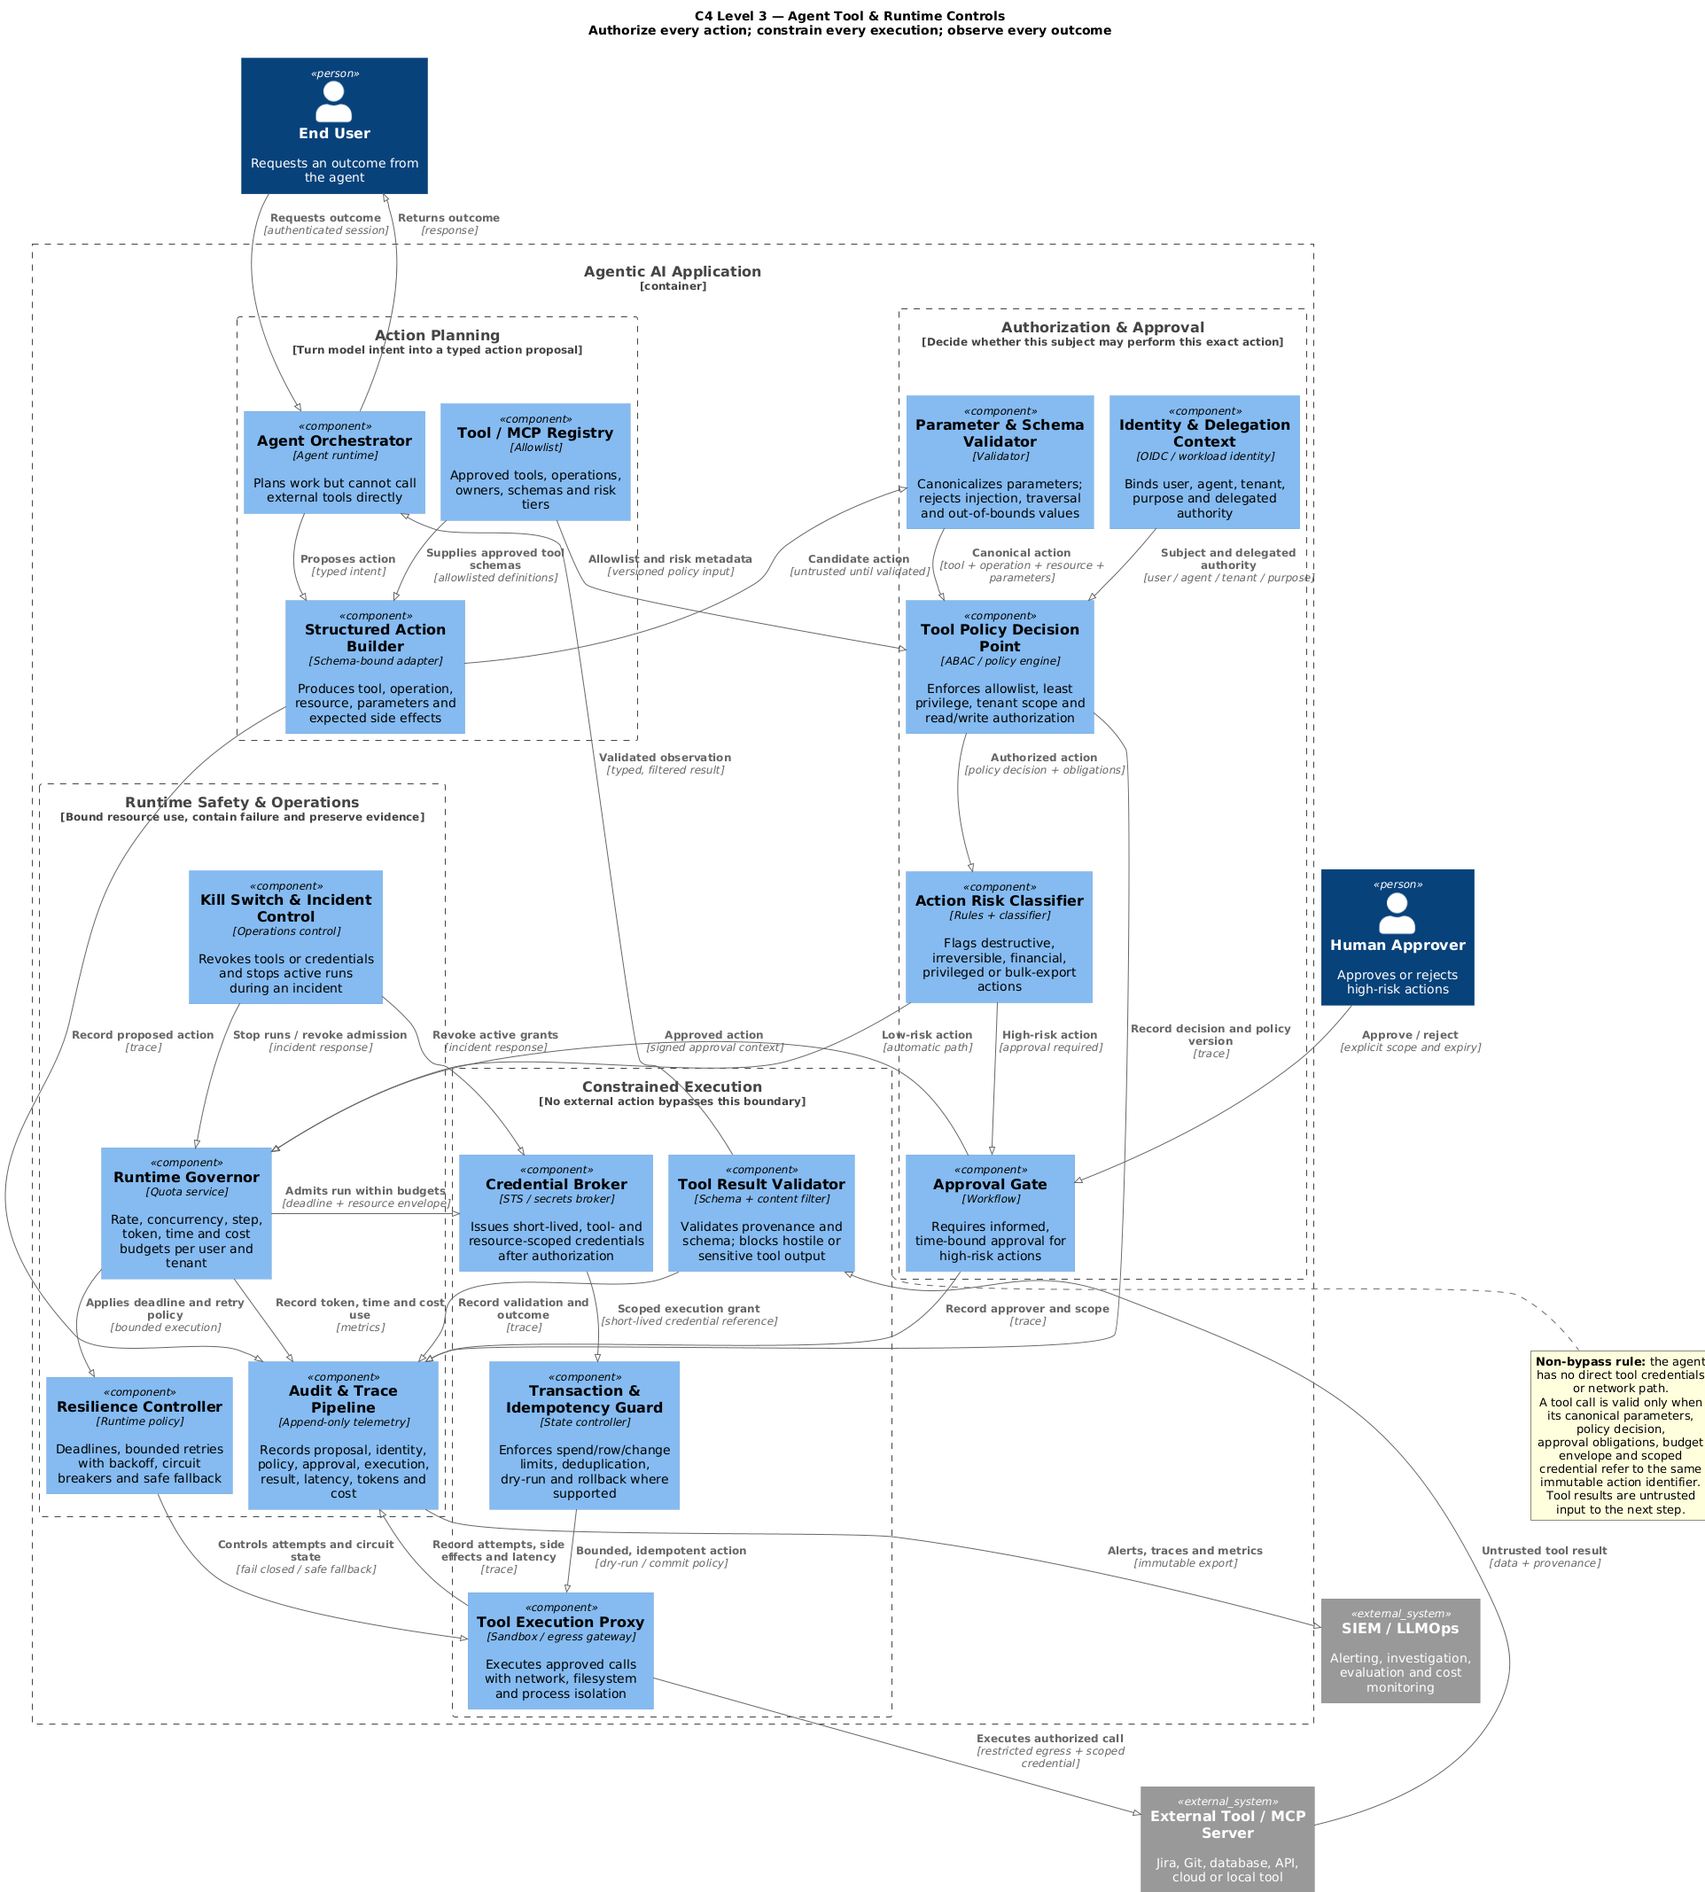
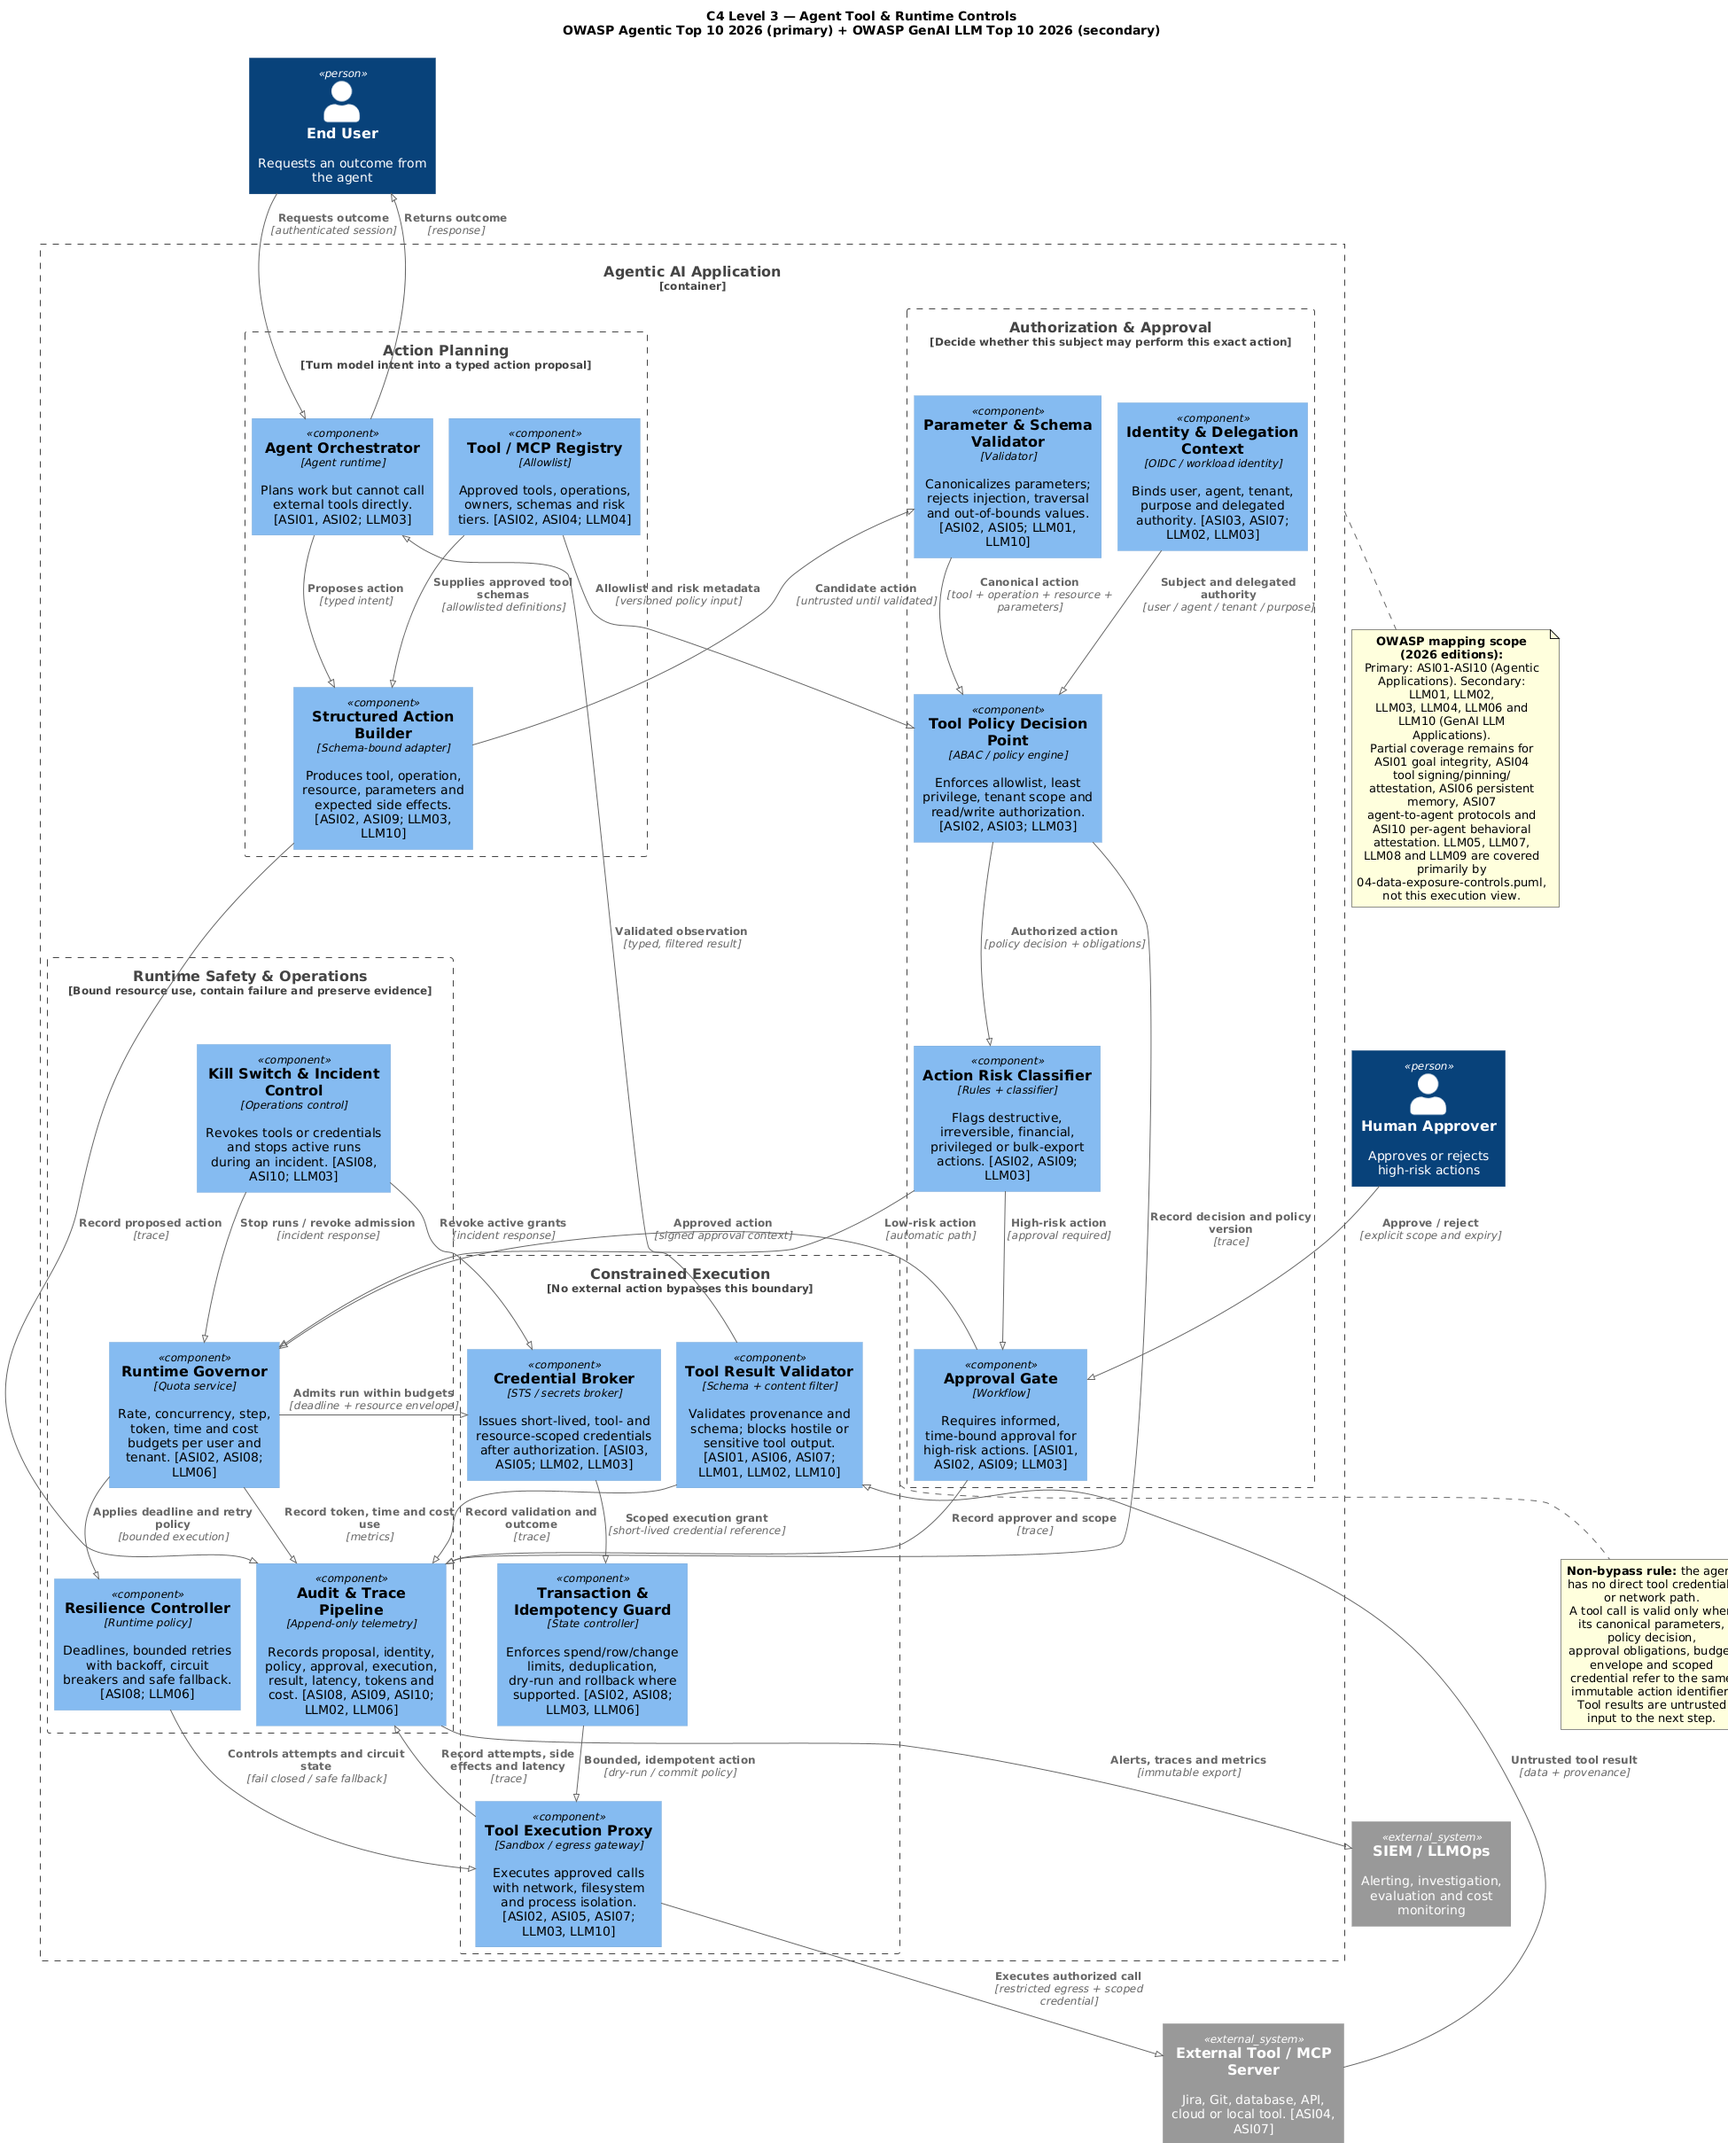
Added tooling mapping

diff --git a/05-owasp-coverage.md b/05-owasp-coverage.md
@@ -1,4 +1,4 @@
-# OWASP GenAI LLM Top 10 2026 — Private-Data Exposure Coverage Matrix
+# OWASP GenAI LLM and Agentic Top 10 2026 — Coverage Matrices
 
 Maps the [OWASP GenAI LLM Top 10 2026](https://github.com/owasp/www-project-top-10-for-large-language-model-applications)
 to the four AI surfaces plus the Supply Chain and Post-Usage Alerting layers from
@@ -19,6 +19,39 @@ in its active source repository.
 | **LLM08** | Hidden Context Exposure | Model diagnostics, RAG, Provider config | `tok_gate`, `rag_out`, `sc_cfg` |
 | **LLM09** | Vector and Embedding Weaknesses | Semantic Search, RAG, Emb-exposure detector | `ss_enc`, `ss_acl`, `rag_acl`, `post_emb` |
 | **LLM10** | Improper Output Handling | Analyzer, RAG, SIEM alerting | `an_out`, `rag_out`, `post_alert` |
+
+## Agent tool and runtime mapping
+
+`05-agent-tool-runtime-controls.puml` uses the [OWASP Top 10 for Agentic Applications
+2026](https://genai.owasp.org/resource/owasp-top-10-for-agentic-applications-for-2026/)
+as its primary framework. Component descriptions carry `ASIxx` identifiers and, after
+the semicolon, applicable `LLMxx` identifiers from the GenAI LLM Top 10 2026.
+
+| OWASP Agentic 2026 | Risk | Controls in the diagram | Coverage |
+|---|---|---|---|
+| **ASI01** | Agent Goal Hijack | `agent`, `approval`, `result` | Partial — constrains consequences and untrusted results; no dedicated goal-integrity monitor |
+| **ASI02** | Tool Misuse & Exploitation | `registry`, `param`, `pdp`, `risk`, `approval`, `txn`, `proxy`, `governor` | Strong |
+| **ASI03** | Identity & Privilege Abuse | `identity`, `pdp`, `credential` | Strong |
+| **ASI04** | Agentic Supply Chain Vulnerabilities | `registry`, external `tool` boundary | Partial — inventory/allowlisting only; signing, version pinning and attestation remain gaps |
+| **ASI05** | Unexpected Code Execution | `param`, `credential`, `proxy` | Strong — deterministic validation, scoped grants and sandboxed execution |
+| **ASI06** | Memory & Context Poisoning | `result` | Partial — validates tool results but does not model persistent agent memory |
+| **ASI07** | Insecure Inter-Agent Communication | `identity`, `proxy`, `result`, external `tool` boundary | Partial — MCP/tool exchange is covered; agent-to-agent protocols are not |
+| **ASI08** | Cascading Failures | `txn`, `governor`, `resilience`, `audit`, `kill` | Strong |
+| **ASI09** | Human-Agent Trust Exploitation | `proposal`, `risk`, `approval`, `audit` | Moderate — scoped approval and evidence are present; approval fatigue remains a human/process risk |
+| **ASI10** | Rogue Agents | `audit`, `kill` | Partial — detection, revocation and containment are present; per-agent behavioral attestation is not |
+
+The secondary LLM mapping is deliberately narrower; LLM categories that primarily
+concern training data, misinformation, hidden model context or embeddings remain in the
+data-exposure view rather than being forced into the agent execution view.
+
+| OWASP GenAI LLM 2026 | Agent/runtime controls in diagram 05 |
+|---|---|
+| **LLM01** Prompt Injection | `param`, `result` — validate proposed parameters and untrusted tool output |
+| **LLM02** Sensitive Information Disclosure | `identity`, `credential`, `result`, `audit` — minimize access and detect sensitive results |
+| **LLM03** Excessive Agency | `agent`, `proposal`, `identity`, `pdp`, `risk`, `approval`, `credential`, `txn`, `proxy`, `kill` |
+| **LLM04** Supply Chain | `registry` — partial tool inventory/allowlisting coverage |
+| **LLM06** Unbounded Consumption | `txn`, `governor`, `resilience`, `audit` |
+| **LLM10** Improper Output Handling | `proposal`, `param`, `proxy`, `result` — schema-bound calls and validated results |
 
 ## Surface-specific exposure notes
 

diff --git a/architecture.md b/architecture.md
@@ -85,6 +85,12 @@ Tool results are treated as untrusted input before they can influence the agent'
 step. A shared immutable action identifier binds the proposal, decision, approval,
 budget envelope and execution grant so none can be replayed for a different action.
 
+Components are mapped primarily to the **OWASP Top 10 for Agentic Applications 2026**
+(`ASI01`–`ASI10`) and secondarily to the applicable **OWASP GenAI LLM Top 10 2026**
+categories. The diagram marks incomplete coverage explicitly: goal integrity, signed and
+pinned tool provenance, persistent memory controls, agent-to-agent protocols and
+per-agent behavioral attestation need additional components for full treatment.
+
 ![C4 Level 3 — Agent tool and runtime controls](05-agent-tool-runtime-controls.png)
 
 ## Visual summary (LinkedIn banner)
@@ -142,5 +148,10 @@ and its linked [canonical 2026 source](https://github.com/GenAI-Security-Project
 | LLM09 | Vector and Embedding Weaknesses | semantic search, RAG, embedding-exposure detector |
 | LLM10 | Improper Output Handling | analyzer, RAG, SIEM alerting |
 
+The agent tool/runtime view is mapped primarily to the separate [OWASP Top 10 for
+Agentic Applications 2026](https://genai.owasp.org/resource/owasp-top-10-for-agentic-applications-for-2026/)
+and secondarily to applicable LLM categories. It covers every `ASI` category, with
+partial coverage explicitly identified rather than treated as complete mitigation.
+
 See [`05-owasp-coverage.md`](05-owasp-coverage.md) for the per-surface notes and the
-"LLM as a new type of DLP" reframe.
+two coverage matrices, plus the "LLM as a new type of DLP" reframe.

diff --git a/README.md b/README.md
@@ -18,6 +18,9 @@ from the app it watches.
 OWASP mappings use the [official OWASP project repository](https://github.com/owasp/www-project-top-10-for-large-language-model-applications),
 which identifies the 2026 release as current and links to its
 [canonical Markdown source](https://github.com/GenAI-Security-Project/GenAI-LLM-Top10/tree/main/2026/final).
+Agent tool/runtime mappings use the separate [OWASP Top 10 for Agentic Applications
+2026](https://genai.owasp.org/resource/owasp-top-10-for-agentic-applications-for-2026/)
+as their primary framework.
 
 ## Files
 
@@ -27,8 +30,8 @@ which identifies the 2026 release as current and links to its
 | `02-container.puml` | C4 Level 2 — Containers: where controls live |
 | `03-component.puml` | C4 Level 3 — Components: controls by lifecycle stage |
 | `04-data-exposure-controls.puml` | C4 Level 3 — Private-data exposure across surfaces, mapped to OWASP GenAI LLM Top 10 2026 |
-| `05-agent-tool-runtime-controls.puml` | C4 Level 3 — Agent tool/MCP authorization, constrained execution, runtime resilience and audit |
-| `05-owasp-coverage.md` | Full OWASP GenAI LLM Top 10 2026 coverage matrix + surface notes |
+| `05-agent-tool-runtime-controls.puml` | C4 Level 3 — Agent tool/MCP and runtime controls, mapped primarily to OWASP Agentic Top 10 2026 and secondarily to OWASP GenAI LLM Top 10 2026 |
+| `05-owasp-coverage.md` | OWASP GenAI LLM and Agentic Top 10 2026 coverage matrices + surface notes |
 | `article.md` | Long-form article: "Where Private Data Actually Leaks in AI Systems" |
 
 ## Render the diagrams
